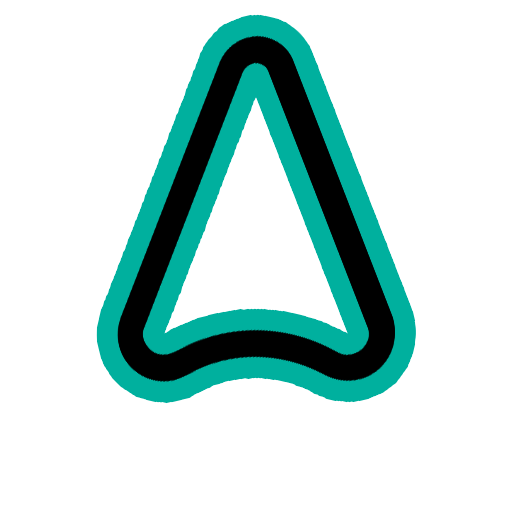
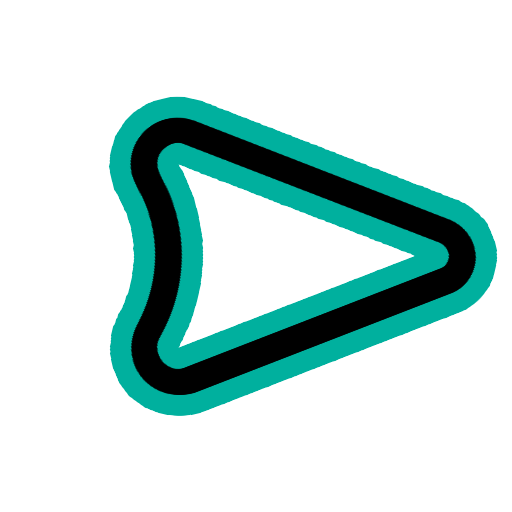
ótimos avanços com rotação da seta

Changed region(s): [[0.1875, 0.0312, 0.9688, 0.8125]]

diff --git a/lib/pages/ARScreen.dart b/lib/pages/ARScreen.dart
@@ -3,6 +3,7 @@ import 'dart:math';
 
 import 'package:flutter/material.dart';
 import 'package:arcore_flutter_plugin/arcore_flutter_plugin.dart';
+import 'package:flutter_compass/flutter_compass.dart';
 import 'package:shared_preferences/shared_preferences.dart';
 import 'package:vector_math/vector_math_64.dart' as vector;
 import 'package:geolocator/geolocator.dart';
@@ -10,8 +11,7 @@ import 'package:localization/localization.dart';
 import 'package:flutter/services.dart';
 import 'package:http/http.dart' as http;
 import 'package:sensors_plus/sensors_plus.dart';
-
-//import 'package:findme/model/Calculation.dart';
+import 'package:wakelock/wakelock.dart';
 
 import '../colors/VisualIdColors.dart';
 import '../model/RealTimeLocation.dart';
@@ -25,16 +25,11 @@ class _ARScreenState extends State<ARScreen> {
   //ARcore variables
   late ArCoreController arCoreController;
   late ArCoreNode imageNode;
-  StreamSubscription<AccelerometerEvent>? _accelerometerSubscription;
   Uint8List imageBytes = Uint8List(0);
 
   //Geolocation variables
-  double friendLatitude = 0;
-  double friendLongitude = 0;
   double distanceBetweenUsers = 0;
   double bearingBetweenUsers = 0;
-
-  late List<double> _orientationValues;
 
   //Connection variables
   late String? roomId = '';
@@ -42,11 +37,15 @@ class _ARScreenState extends State<ARScreen> {
   late String userName = '';
 
   //arrow variables
-  double _heading = 0;
+  StreamSubscription<GyroscopeEvent>? _gyroscopeSubscription;  
+  double _arrowAngle = 90;
+  double? heading;
 
   @override
   void initState() {
     super.initState();
+
+    Wakelock.enable();
 
     getRoom().then((_) {
       realTimeLocation = RealTimeLocation();
@@ -55,8 +54,17 @@ class _ARScreenState extends State<ARScreen> {
       realTimeLocation.getDistanceBetweenUsers(updateDistance);
     });
 
-    _orientationValues = List.filled(2, 0);
-    _startAccelerometerListener();
+    FlutterCompass.events?.listen((event) {
+      setState(() {
+        heading = event.heading;
+      });
+      _updateArrowAngle();
+      if (_isCameraFacingCoordinates()) {
+        setState(() {
+          _addImageNode();
+        });
+      }
+    });
   }
 
   Future<void> getRoom() async {
@@ -65,44 +73,19 @@ class _ARScreenState extends State<ARScreen> {
     userName = prefs.getString('name_user') ?? '';
   }
 
-  void _startAccelerometerListener() {
-    _accelerometerSubscription =
-        accelerometerEvents.listen((AccelerometerEvent event) {
-      _orientationValues = <double>[event.x, event.y];
-      // _heading = _calculateHeading();
-      // if (_isCameraFacingCoordinates()) {
-      //   setState(() {
-      //     _addImageNode();
-      //   });
-      // }
-    });
-  }
-
   Future<void> updateDistance(double newDistance, double newBearing,
       double remoteLatitude, double remoteLongitude) async {
-    setState(() {
-      distanceBetweenUsers = newDistance;
-      bearingBetweenUsers = newBearing;
-
-      if (remoteLatitude != 0 && remoteLongitude != 0) {
-        friendLatitude = remoteLatitude;
-        friendLongitude = remoteLongitude;
-
-        _heading = _calculateHeading();
-
-        if (_isCameraFacingCoordinates()) {
-          setState(() {
-            _addImageNode();
-          });
-        }
-      }
-    });
+    distanceBetweenUsers = newDistance;
+    bearingBetweenUsers = newBearing;
   }
 
   @override
   void dispose() {
+    _gyroscopeSubscription?.cancel();
+    accelerometerEvents.drain();
     arCoreController.dispose();
     realTimeLocation.disconnect();
+    Wakelock.disable();
     super.dispose();
   }
 
@@ -125,15 +108,18 @@ class _ARScreenState extends State<ARScreen> {
             onArCoreViewCreated: _onArCoreViewCreated,
             enableTapRecognizer: false,
           ),
-          Positioned(
-            bottom: 0,
-            left: 0,
-            right: 0,
-            child: Align(
-              alignment: Alignment.center,
-              child: Transform.rotate(
-                angle: _heading,
-                child: Image.asset('assets/images/arrow.png', width: 200),
+          Visibility(
+            visible: distanceBetweenUsers > 0,
+            child: Positioned(
+              bottom: 0,
+              left: 0,
+              right: 0,
+              child: Align(
+                alignment: Alignment.center,
+                child: Transform.rotate(
+                  angle: _arrowAngle * pi / 180,
+                  child: Image.asset('assets/images/arrow.png', width: 200),
+                ),
               ),
             ),
           ),
@@ -144,7 +130,7 @@ class _ARScreenState extends State<ARScreen> {
               left: 10,
               right: 10,
               child: Text(
-                '$userName ${'is-distance'.i18n()} $formattedDistance ${'away'.i18n()}',
+                "$userName ${'is-distance'.i18n()} $formattedDistance ${'away'.i18n()}. \nHeading: ${heading!.toStringAsFixed(2)} \nBearing between users: ${bearingBetweenUsers.toStringAsFixed(2)} \nArrow angle: ${_arrowAngle.toStringAsFixed(2)}",
                 style: const TextStyle(
                   fontSize: 14,
                   color: Colors.white,
@@ -169,47 +155,22 @@ class _ARScreenState extends State<ARScreen> {
     _addImageNode();
   }
 
-  double _calculateHeading() {
-    print("friendLongitude: $friendLongitude");
-    print("friendLatitude: $friendLatitude");
+  void _updateArrowAngle() {
+    double arrowAngle = heading! + bearingBetweenUsers;
 
-    print(_orientationValues[1]);
-    print(_orientationValues[0]);
-
-    double deltaY = _orientationValues[1] - friendLongitude;
-    double deltaX = _orientationValues[0] - friendLatitude;
-
-    double heading = atan2(deltaY, deltaX) * (180 / pi); // angle in degrees
-    print("fdsfsdfds");
-
-    print(heading);
-    // mantém a seta apontada sempre buscando o giro da câmera
-    if (heading >= 0) {
-      return heading;
+    if (arrowAngle < 0) {
+      arrowAngle = arrowAngle.abs() / 180 * 90;
+    } else {
+      arrowAngle = arrowAngle / 180 * 90 + 90;
     }
-    if (heading < 0 && heading >= -90) {
-      return 0;
-    }
-    return 180;
+
+    setState(() {
+      _arrowAngle = arrowAngle;
+    });
   }
 
   bool _isCameraFacingCoordinates() {
-    if (friendLatitude == 0 && friendLongitude == 0) {
-      return false; // Not enough data to determine facing direction
-    }
-
-    // Get the direction of the camera.
-    final double x = _orientationValues[0];
-    final double y = _orientationValues[1];
-
-    // Get the angle between the camera direction and the coordinates.
-    final double angle = atan2(y, x); //angle in radians
-    final double angleDegrees = angle * (180 / pi); //angle in degrees
-
-    final double difference = friendLongitude - angleDegrees;
-
-    // Return true if the difference is less than or equal to 10 degrees.
-    return difference <= 10;
+    return _arrowAngle < 10;
   }
 
   Future<Uint8List> _loadImageFromUrl() async {
@@ -240,13 +201,15 @@ class _ARScreenState extends State<ARScreen> {
       position: vector.Vector3(0.0, 0.0,
           -getMaxImageDistance()), // Move o objeto para trás da câmera à distância máxima ou a do amigo
       rotation:
-          vector.Vector4(0.0, 0, 0.0, 0), // Rotação em radianos (45 graus)
+          vector.Vector4(0.0, 0, 0.0, 0), 
       scale: vector.Vector3(0.7, 0.7, 0.7),
       name: 'user-logo',
     );
-    if (_isCameraFacingCoordinates()) {
-      arCoreController.removeNode(nodeName: imageNode.name);
-      arCoreController.addArCoreNode(imageNode);
+    if (_isCameraFacingCoordinates() && distanceBetweenUsers > 0) {
+      setState(() {
+        arCoreController.removeNode(nodeName: imageNode.name);
+        arCoreController.addArCoreNode(imageNode);
+      });
     }
   }
 }

diff --git a/lib/components/MainDrawer.dart b/lib/components/MainDrawer.dart
@@ -8,10 +8,21 @@ import '../model/User.dart';
 import '../pages/RegisterScreen.dart';
 import 'AddContact.dart';
 
-class MainDrawer extends StatelessWidget {  
-  final String userName = User().getFullName();
+class MainDrawer extends StatelessWidget {   
+  late String userName = '';
+
+  @override
+  void initState() {    
+    fillUserName();    
+  }
+
+  void fillUserName() async {
+    userName = (await User().getFullName())!;
+  }
+
   @override
   Widget build(BuildContext context) {
+    
     return Container(
       color: VisualIdColors.colorGreen(),
       child: Column(
@@ -45,7 +56,7 @@ class MainDrawer extends StatelessWidget {
               Icons.add,
               color: Colors.white70,
             ),
-            title: Text("${"user".i18n() + userName}!",
+            title: Text("${'user'.i18n()} + ${User().getFullName()};!",
                 style: const TextStyle(color: Colors.white70)),
           ),
           const SizedBox(

diff --git a/macos/Flutter/GeneratedPluginRegistrant.swift b/macos/Flutter/GeneratedPluginRegistrant.swift
@@ -11,6 +11,7 @@ import flutter_local_notifications
 import flutter_secure_storage_macos
 import geolocator_apple
 import shared_preferences_foundation
+import wakelock_macos
 
 func RegisterGeneratedPlugins(registry: FlutterPluginRegistry) {
   FLTFirebaseCorePlugin.register(with: registry.registrar(forPlugin: "FLTFirebaseCorePlugin"))
@@ -19,4 +20,5 @@ func RegisterGeneratedPlugins(registry: FlutterPluginRegistry) {
   FlutterSecureStoragePlugin.register(with: registry.registrar(forPlugin: "FlutterSecureStoragePlugin"))
   GeolocatorPlugin.register(with: registry.registrar(forPlugin: "GeolocatorPlugin"))
   SharedPreferencesPlugin.register(with: registry.registrar(forPlugin: "SharedPreferencesPlugin"))
+  WakelockMacosPlugin.register(with: registry.registrar(forPlugin: "WakelockMacosPlugin"))
 }

diff --git a/lib/model/User.dart b/lib/model/User.dart
@@ -180,7 +180,7 @@ class User {
     return _readSecureData("name");
   }
 
-  String getFullName() {
+  Future<String?> getFullName() async {
     return "${_readSecureData("name")} ${_readSecureData("familyName")}";
   }
 
